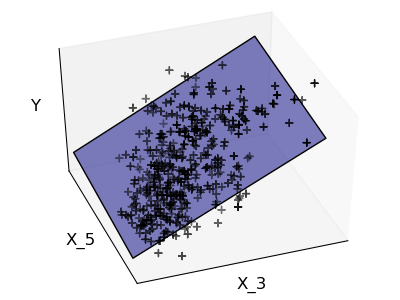
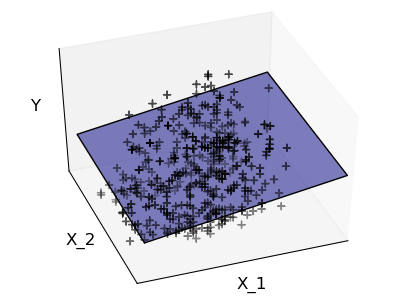
Sparsity

diff --git a/tutorial/plot_ols_3d.py b/tutorial/plot_ols_3d.py
@@ -5,7 +5,7 @@ from mpl_toolkits.mplot3d import Axes3D
 from scikits.learn import datasets, linear_model
 
 diabetes = datasets.load_diabetes()
-indices = (2, 4)
+indices = (0, 1)
 
 X_train = diabetes.data[:-20, indices]
 X_test  = diabetes.data[-20:, indices]
@@ -27,8 +27,8 @@ ax.plot_surface(np.array([[-.1, -.1], [.15, .15]]),
                                       [-.1, .15, -.1, .15]]).T
                             ).reshape((2, 2)),
                 alpha=.5)
-ax.set_xlabel('X_3')
-ax.set_ylabel('X_5')
+ax.set_xlabel('X_1')
+ax.set_ylabel('X_2')
 ax.set_zlabel('Y')
 ax.set_xticks(())
 ax.set_yticks(())

diff --git a/tutorial/supervised_learning.rst b/tutorial/supervised_learning.rst
@@ -231,13 +231,9 @@ Sparsity
 
 .. rst-class:: centered
 
-    **Fitting only features 3 and 5**
+    **Fitting only features 5 and 6**
 
     |diabetes_ols_diag| |diabetes_ols_x2| |diabetes_ols_x1| 
-
-We can see that although feature 5 has a strong coefficient on the full
-model, it conveys little information on `y` when considered only with
-feature 3.
 
 .. note::
 
@@ -246,6 +242,34 @@ feature 3.
    is hard to develop an intuition on such representation, but it may be
    useful to keep in mind that it would be a fairly *empty* space.
 
+
+
+We can see that although feature 2 has a strong coefficient on the full
+model, it conveys little information on `y` when considered with feature
+1.
+
+To improve the conditioning of the problem (mitigate the curse of
+dimensionality), it would be interesting to select only the informative
+features and set non-informative ones, like feature 2 to 0. Ridge regression
+will decrease their contribution, but not set them to zero. Another
+penalization approach, called **Lasso**, can set some coefficients to zero.
+Such methods are called **sparse method**, and sparsity can be seen as an
+application of Occam's razor: prefer simpler models.
+
+:: 
+
+    >>> regr = linear_model.Lasso(alpha=.1)
+    >>> print [regr.fit(X_train, y_train, alpha=alpha
+    ...             ).score(X_test, y_test) for alpha in alphas]
+    [0.5851191069162196, 0.58524713649060311, 0.58571895391793782, 0.58730094854527282, 0.5887622418309254, 0.58284500296816755]
+    
+    >>> best_alpha = alphas[4]
+    >>> regr.fit(X_train, y_train, alpha=best_alpha)
+    Lasso(precompute='auto', alpha=0.025118864315095794, max_iter=1000,
+       tol=0.0001, fit_intercept=True)
+    >>> print regr.coef_    # doctest: 
+    [   0.         -212.43764548  517.19478111  313.77959962 -160.8303982    -0.
+     -187.19554705   69.38229038  508.66011217   71.84239008]
 
 
 Support vector machines
